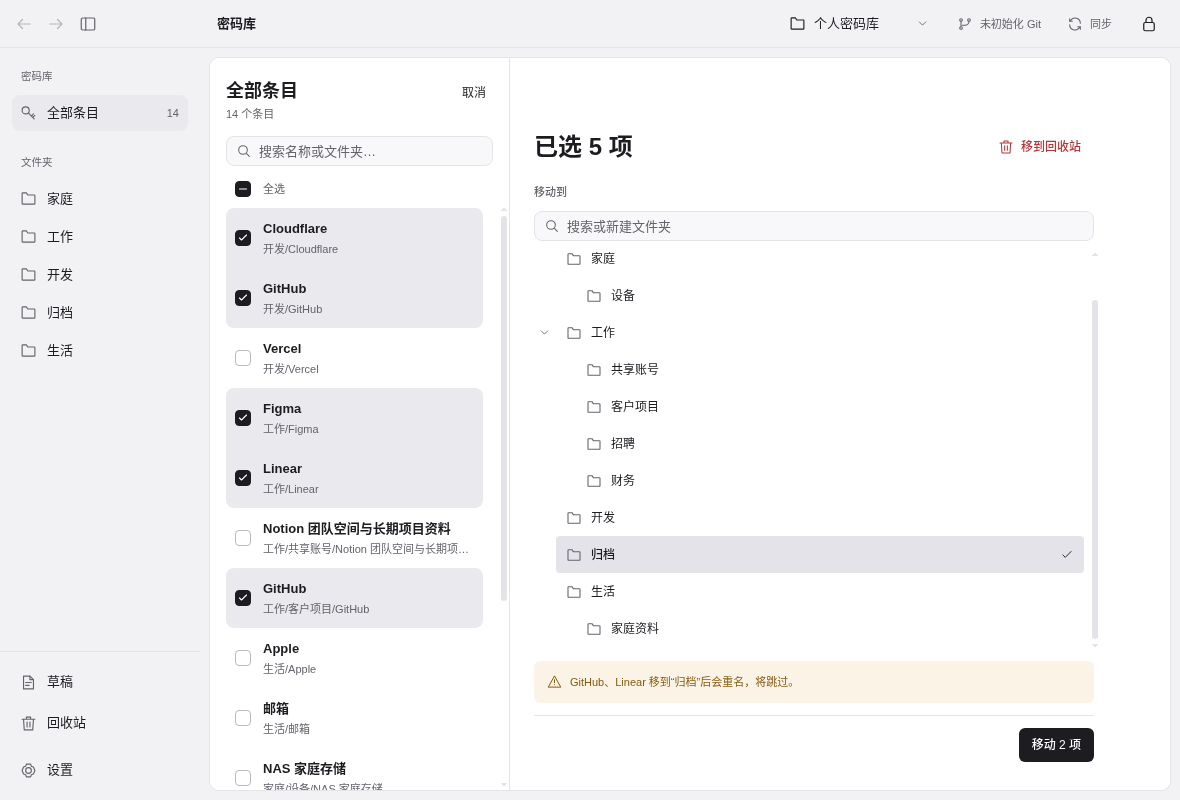
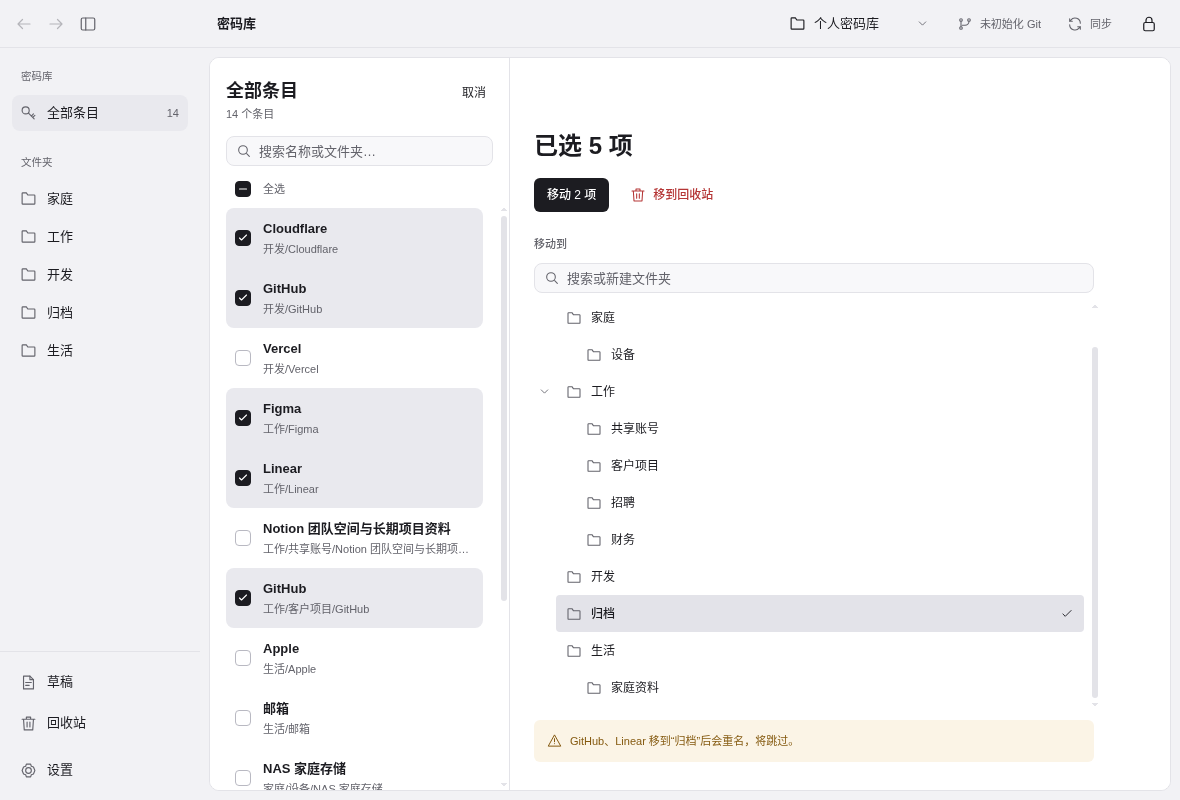
feat(desktop): group batch actions under the selection count
- Place Move and Move to trash side by side under the selected count
  instead of splitting them between the heading and a bottom bar
- Keep move notices below the folder tree so choosing a folder never
  shifts the row that was clicked
- Apply the same layout to the design prototype, update its canvas
  notes, and regenerate the evidence screenshots

diff --git a/design/batch-edit/constants/copy.js b/design/batch-edit/constants/copy.js
@@ -124,8 +124,8 @@ globalThis.PASSPINE_BATCH_COPY = {
     zoomIn: "放大",
     zoomOut: "缩小",
     backPrototype: "返回交互稿",
-    canvasSelectionNote: "选择：沿用客户端的卡片布局，进入选择模式后行首出现勾选框。右侧面板直接显示文件夹树，移到回收站是次要操作。搜索只过滤列表，不清空选择。",
-    canvasMoveNote: "移动：不再弹窗，选中文件夹后点“移动 N 项”。文件夹树默认全部展开，子文件夹多时才可折叠；搜索时切换为完整路径。同名条目用一句话说明并跳过，按钮显示实际移动数量；处理进度显示在按钮上。",
+    canvasSelectionNote: "选择：沿用客户端的卡片布局，进入选择模式后行首出现勾选框。右侧面板标题下并排放“移动”和“移到回收站”，下方直接显示文件夹树。搜索只过滤列表，不清空选择。",
+    canvasMoveNote: "移动：不再弹窗，在树中选中文件夹后点标题下的“移动 N 项”。文件夹树默认全部展开，子文件夹多时才可折叠；搜索时切换为完整路径。同名条目用一句话说明并跳过，按钮显示实际移动数量；处理进度显示在按钮上。",
     canvasTrashNote: "回收站可恢复，因此不再确认，直接移入并提供撤销。完成只用 Toast 反馈，只有部分失败才保留结果页。",
     canvasVariantsNote: "相同交互的深色、English 和 860 × 760 窄窗口变体。",
     narrowVariant: "多选 · 窄窗口",
@@ -255,8 +255,8 @@ globalThis.PASSPINE_BATCH_COPY = {
     zoomIn: "Zoom in",
     zoomOut: "Zoom out",
     backPrototype: "Back to prototype",
-    canvasSelectionNote: "Selection: keeps the client's card layout; checkboxes appear at the start of each row in selection mode. The panel shows the folder tree directly, with Move to trash as the secondary action. Search filters without clearing the selection.",
-    canvasMoveNote: "Move: no dialog — pick a folder, then Move N. The tree opens fully expanded; only folders with many subfolders can collapse, and search switches to full paths. Name conflicts get one sentence and are skipped; the button shows the real count. Progress appears on the button.",
+    canvasSelectionNote: "Selection: keeps the client's card layout; checkboxes appear at the start of each row in selection mode. The panel keeps Move and Move to trash together under the count, with the folder tree below. Search filters without clearing the selection.",
+    canvasMoveNote: "Move: no dialog — pick a folder in the tree, then Move N under the count. The tree opens fully expanded; only folders with many subfolders can collapse, and search switches to full paths. Name conflicts get one sentence and are skipped; the button shows the real count. Progress appears on the button.",
     canvasTrashNote: "Trash is recoverable, so there's no confirmation: entries move right away with Undo. Success is a toast; only partial failures keep a result panel.",
     canvasVariantsNote: "The same interaction in dark appearance, English, and an 860 × 760 narrow window.",
     narrowVariant: "Selection · Narrow window",

diff --git a/design/batch-edit/constants/copy.ts b/design/batch-edit/constants/copy.ts
@@ -124,8 +124,8 @@ globalThis.PASSPINE_BATCH_COPY = {
     zoomIn: "放大",
     zoomOut: "缩小",
     backPrototype: "返回交互稿",
-    canvasSelectionNote: "选择：沿用客户端的卡片布局，进入选择模式后行首出现勾选框。右侧面板直接显示文件夹树，移到回收站是次要操作。搜索只过滤列表，不清空选择。",
-    canvasMoveNote: "移动：不再弹窗，选中文件夹后点“移动 N 项”。文件夹树默认全部展开，子文件夹多时才可折叠；搜索时切换为完整路径。同名条目用一句话说明并跳过，按钮显示实际移动数量；处理进度显示在按钮上。",
+    canvasSelectionNote: "选择：沿用客户端的卡片布局，进入选择模式后行首出现勾选框。右侧面板标题下并排放“移动”和“移到回收站”，下方直接显示文件夹树。搜索只过滤列表，不清空选择。",
+    canvasMoveNote: "移动：不再弹窗，在树中选中文件夹后点标题下的“移动 N 项”。文件夹树默认全部展开，子文件夹多时才可折叠；搜索时切换为完整路径。同名条目用一句话说明并跳过，按钮显示实际移动数量；处理进度显示在按钮上。",
     canvasTrashNote: "回收站可恢复，因此不再确认，直接移入并提供撤销。完成只用 Toast 反馈，只有部分失败才保留结果页。",
     canvasVariantsNote: "相同交互的深色、English 和 860 × 760 窄窗口变体。",
     narrowVariant: "多选 · 窄窗口",
@@ -255,8 +255,8 @@ globalThis.PASSPINE_BATCH_COPY = {
     zoomIn: "Zoom in",
     zoomOut: "Zoom out",
     backPrototype: "Back to prototype",
-    canvasSelectionNote: "Selection: keeps the client's card layout; checkboxes appear at the start of each row in selection mode. The panel shows the folder tree directly, with Move to trash as the secondary action. Search filters without clearing the selection.",
-    canvasMoveNote: "Move: no dialog — pick a folder, then Move N. The tree opens fully expanded; only folders with many subfolders can collapse, and search switches to full paths. Name conflicts get one sentence and are skipped; the button shows the real count. Progress appears on the button.",
+    canvasSelectionNote: "Selection: keeps the client's card layout; checkboxes appear at the start of each row in selection mode. The panel keeps Move and Move to trash together under the count, with the folder tree below. Search filters without clearing the selection.",
+    canvasMoveNote: "Move: no dialog — pick a folder in the tree, then Move N under the count. The tree opens fully expanded; only folders with many subfolders can collapse, and search switches to full paths. Name conflicts get one sentence and are skipped; the button shows the real count. Progress appears on the button.",
     canvasTrashNote: "Trash is recoverable, so there's no confirmation: entries move right away with Undo. Success is a toast; only partial failures keep a result panel.",
     canvasVariantsNote: "The same interaction in dark appearance, English, and an 860 × 760 narrow window.",
     narrowVariant: "Selection · Narrow window",

diff --git a/design/batch-edit/prototype.js b/design/batch-edit/prototype.js
@@ -189,12 +189,12 @@
     const moveLabel = running("move") ? t("progressMoving", { done: p.done, total: p.total }) : t("moveCount", { count: moveTotal });
     const trashLabel = running("trash") ? t("progressTrashing", { done: p.done, total: p.total }) : t("trashAction");
     return `<div class="batch-panel selection-panel"><div class="panel-toolbar"></div>
-      <div class="selection-heading"><h2>${t("selectedCount", { count: p ? p.total : count })}</h2>${button("trash", trashLabel, "quiet danger-text", running("trash") ? "spinner" : "trash", busy(), progress("trash"))}</div>
+      <div class="selection-heading"><h2>${t("selectedCount", { count: p ? p.total : count })}</h2></div>
+      <div class="batch-actions">${button("confirm-move", moveLabel, "primary", running("move") ? "spinner" : "", busy() || s.destination === null || !plan.ready.length, progress("move"))}${button("trash", trashLabel, "quiet danger-text", running("trash") ? "spinner" : "trash", busy(), progress("trash"))}</div>
       <section class="move-section" aria-labelledby="move-label"><h3 class="section-label" id="move-label">${t("moveSection")}</h3>
         <div class="folder-search search-wrap">${icon("search")}<input id="folder-search" placeholder="${t("folderSearch")}" aria-label="${t("folderSearchLabel")}" value="${esc(s.folderQuery)}" ${busy() ? "disabled" : ""}></div>
         <div class="folder-list ${query ? "flat" : ""}" role="group" aria-label="${t("chooseDestination")}">${query ? shown.map(folder => folderOption(folder, folderLabel(folder), 0, false)).join("") : folderTree()}${canCreate ? `<button class="folder-option folder-create" data-folder="${esc(candidate)}">${icon("folderPlus")}<span>${esc(t("createFolder", { folder: candidate }))}</span></button>` : ""}${!shown.length && !canCreate ? `<p class="muted">${t("noFolders")}</p>` : ""}</div>
         ${moveNotices(plan)}
-        <div class="move-footer">${button("confirm-move", moveLabel, "primary", running("move") ? "spinner" : "", busy() || s.destination === null || !plan.ready.length, progress("move"))}</div>
       </section></div>`;
   }
 

diff --git a/design/batch-edit/style.css b/design/batch-edit/style.css
@@ -234,15 +234,15 @@ a.text-button { text-decoration: none; }
 .batch-actions .button { min-height: 34px; }
 /* Moving happens in the panel itself: heading with the secondary trash action, then the folder tree. */
 .selection-panel { display: flex; flex: 1; flex-direction: column; max-width: 608px; min-height: 0; }
-.selection-heading { display: flex; align-items: center; justify-content: space-between; gap: 16px; margin-top: 16px; }
+.selection-heading { margin-top: 16px; }
+.selection-panel > .batch-actions { margin-top: 16px; }
 .selection-heading h2 { font-size: 24px; font-weight: 700; line-height: 32px; }
 .button.quiet { border-color: transparent; background: transparent; }
 .button.quiet:hover { background: var(--hover); }
-.move-section { display: flex; flex: 1; flex-direction: column; min-height: 0; margin-top: 20px; }
+.move-section { display: flex; flex: 1; flex-direction: column; min-height: 0; margin-top: 24px; }
 .section-label { margin-bottom: 10px; color: var(--muted); font-size: 11px; font-weight: 500; line-height: 17px; }
 .move-section .folder-search { margin: 0 0 8px; }
 .move-section > .inline-notice { margin-top: 10px; }
-.move-footer { display: flex; flex: none; justify-content: flex-end; margin-top: 12px; border-top: 1px solid var(--border); padding-top: 12px; }
 .empty-state { display: flex; flex: 1; flex-direction: column; align-items: center; justify-content: center; min-height: 290px; padding: 50px 36px; text-align: center; }
 .empty-symbol { display: flex; align-items: center; justify-content: center; margin-bottom: 14px; color: var(--muted); }
 .empty-symbol .icon { width: 30px; height: 30px; }

diff --git a/client/desktop/batch.go b/client/desktop/batch.go
@@ -557,8 +557,23 @@ func (a *application) batchView(c *ui.Context) {
 	}
 	ui.Column(c).Key("batch-panel").Fill().MaxWidth(608).Padding(24).Children(func() {
 		ui.Box(c).MinHeight(32)
-		ui.Row(c).FillWidth().Margin(20, 0, 0, 0).AlignItems(ui.Center).Gap(12).Children(func() {
-			components.Text(c, a.t("已选 %d 项", count)).Grow(1).MinWidth(0).FontSize(scaledFontSize(c, 24)).Bold()
+		components.Text(c, a.t("已选 %d 项", count)).Margin(20, 0, 0, 0).FillWidth().FontSize(scaledFontSize(c, 24)).Bold()
+		// Both actions sit together under the count: moving is the primary one
+		// and needs a folder below, while trash is the quieter alternative.
+		ui.Row(c).Key("batch-actions").FillWidth().Margin(16, 0, 0, 0).AlignItems(ui.Center).Gap(8).Children(func() {
+			label := a.t("移动 %d 项", len(chosen))
+			if a.batch.chosen {
+				label = a.t("移动 %d 项", len(ready))
+			}
+			moving := progress != nil && progress.action == "move"
+			if moving {
+				label = a.t("正在移动 %d/%d", progress.done, progress.total)
+			}
+			// The running action keeps full contrast so its progress stays readable;
+			// startBatchMove ignores clicks while busy.
+			if components.Button(c, label, components.ButtonPrimary).Disabled(!moving && (a.busy || !a.batch.chosen || len(ready) == 0)).Clicked() {
+				a.startBatchMove()
+			}
 			trashLabel := a.t("移到回收站")
 			if progress != nil && progress.action == "trash" {
 				trashLabel = a.t("正在移到回收站 %d/%d", progress.done, progress.total)
@@ -572,7 +587,7 @@ func (a *application) batchView(c *ui.Context) {
 				a.startBatchTrash()
 			}
 		})
-		components.Text(c, a.t("移动到")).Margin(20, 0, 8, 0).FontSize(scaledFontSize(c, 11)).TextColor(c.Theme().TextMuted)
+		components.Text(c, a.t("移动到")).Margin(24, 0, 8, 0).FontSize(scaledFontSize(c, 11)).TextColor(c.Theme().TextMuted)
 		search := textBox(c, &a.batch.folderQuery, components.TextBoxOptions{LeadingIcon: lucide.Search()}).FillWidth().Label(a.t("搜索目标文件夹")).Placeholder(a.t("搜索或新建文件夹")).Disabled(a.busy)
 		if search.Changed() {
 			a.lastInput = time.Now()
@@ -593,21 +608,6 @@ func (a *application) batchView(c *ui.Context) {
 				a.batchNotice(c, false, a.t("没有可移动的条目，请换一个文件夹。"))
 			}
 		}
-		ui.Row(c).FillWidth().Margin(12, 0, 0, 0).Padding(12, 0, 0, 0).Justify(ui.End).BorderWidth(1, 0, 0, 0).BorderColor(c.Theme().Border).Children(func() {
-			label := a.t("移动 %d 项", len(chosen))
-			if a.batch.chosen {
-				label = a.t("移动 %d 项", len(ready))
-			}
-			moving := progress != nil && progress.action == "move"
-			if moving {
-				label = a.t("正在移动 %d/%d", progress.done, progress.total)
-			}
-			// The running action keeps full contrast so its progress stays readable;
-			// startBatchMove ignores clicks while busy.
-			if components.Button(c, label, components.ButtonPrimary).Disabled(!moving && (a.busy || !a.batch.chosen || len(ready) == 0)).Clicked() {
-				a.startBatchMove()
-			}
-		})
 	})
 }
 
